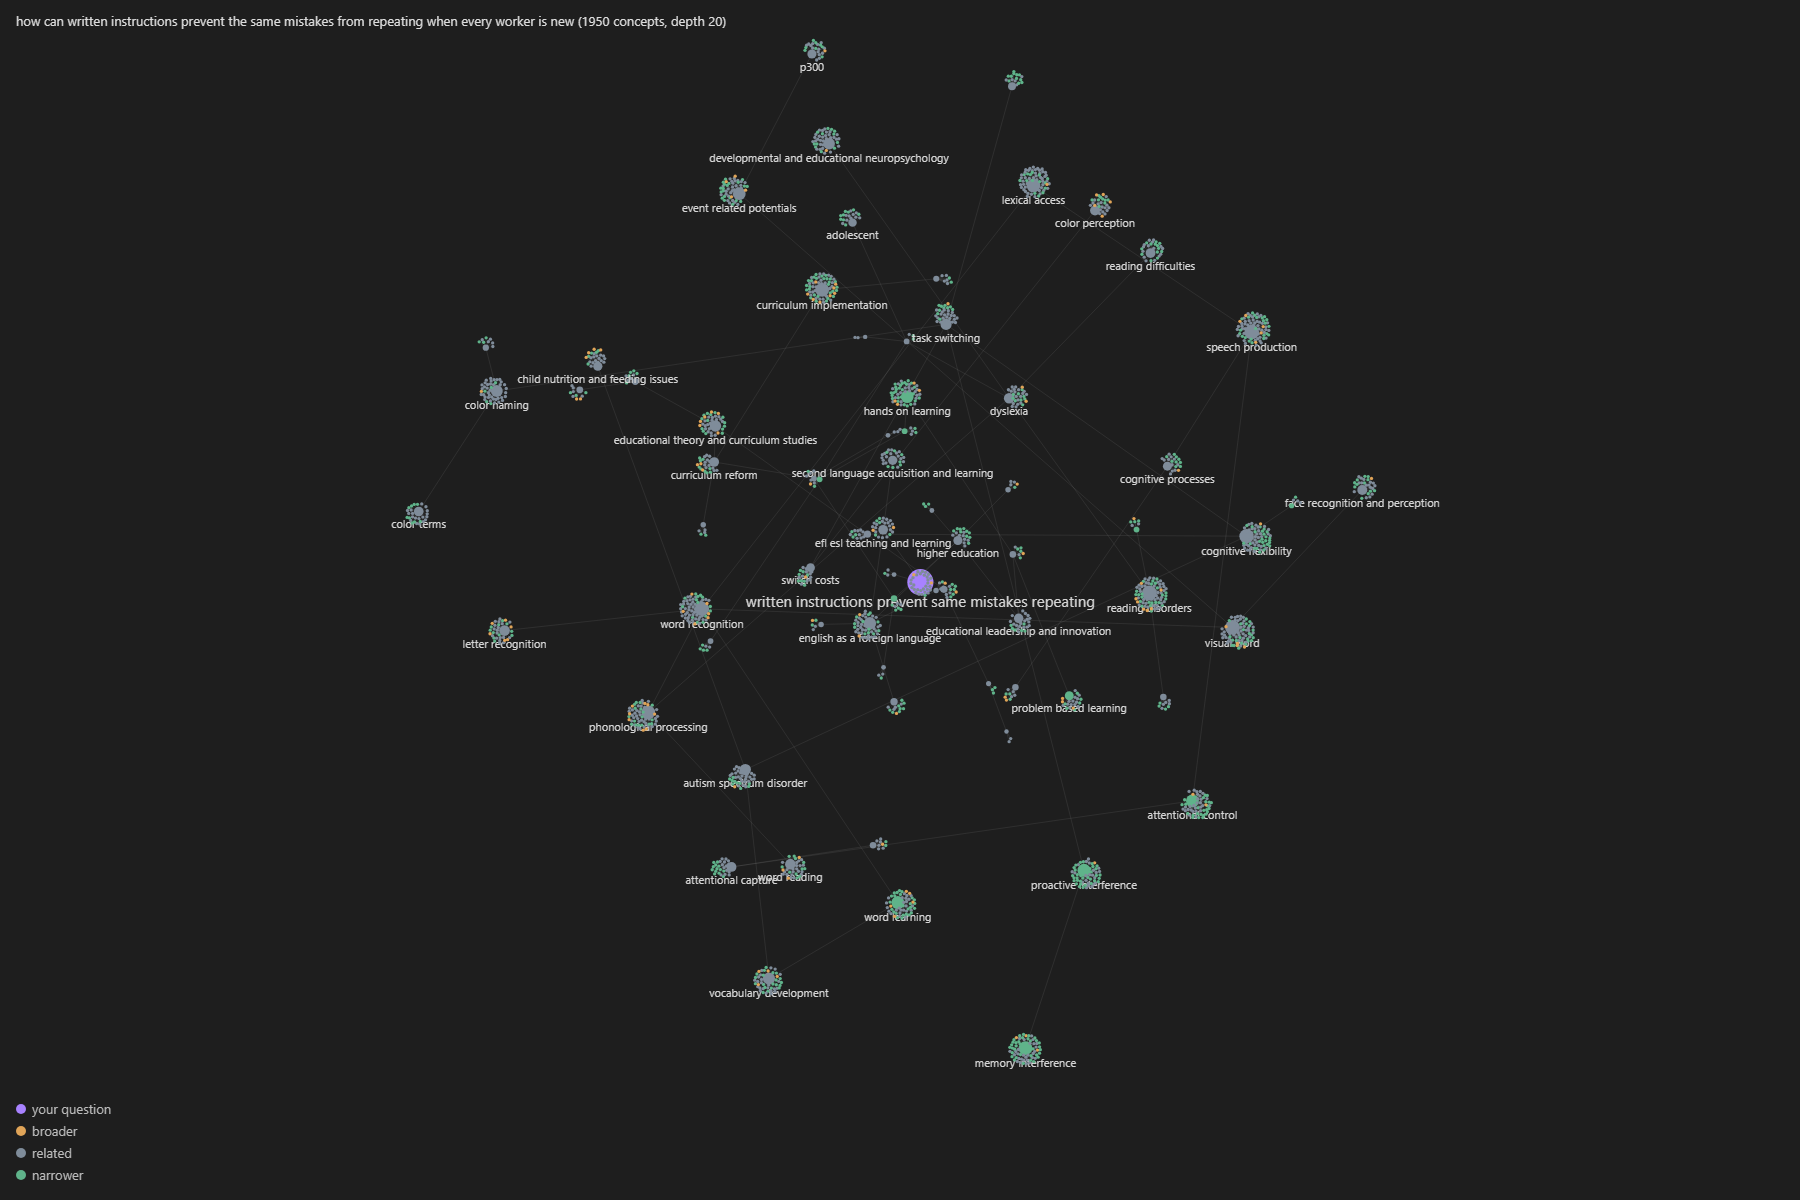
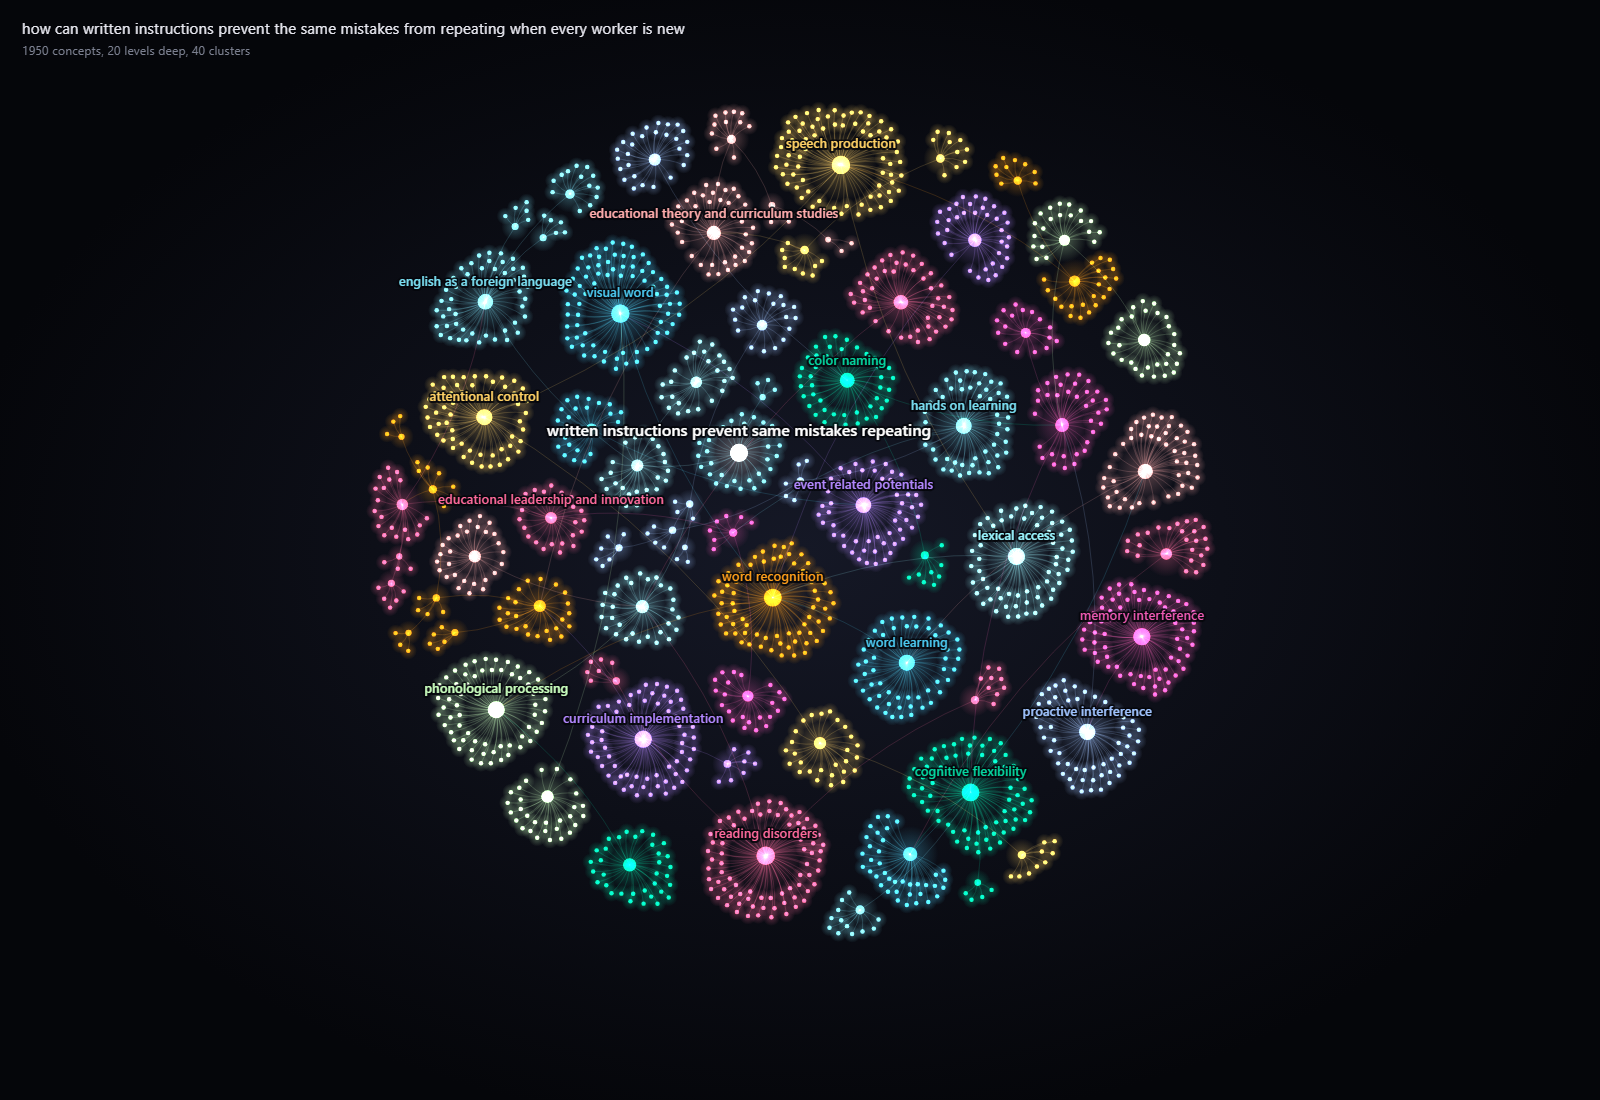
docs: concept map uses ForceAtlas2 layout and coloured clusters

diff --git a/tools/graph_view.py b/tools/graph_view.py
@@ -1,9 +1,9 @@
-"""Draw a run's concept map as a force-directed graph page, like Obsidian's graph view.
+"""Draw a run's concept map as a network picture: ForceAtlas2 layout, one colour per cluster.
 
     python tools/graph_view.py output/research_map.json --out graph.html
     python tools/graph_view.py output/research_map.json --out graph.html --png docs/assets/graph.png
 
-The page loads force-graph from a CDN; the package itself stays free of dependencies.
+The page loads graphology from a CDN; the package itself stays free of dependencies.
 --png renders the page in headless Chrome and saves a screenshot.
 """
 
@@ -14,52 +14,82 @@ import shutil
 import subprocess
 from pathlib import Path
 
-LIB = "https://cdn.jsdelivr.net/npm/force-graph@1.43.5/dist/force-graph.min.js"
+LIBS = "".join(f'<script src="https://cdn.jsdelivr.net/npm/{path}"></script>' for path in (
+    "graphology@0.25.4/dist/graphology.umd.min.js",
+    "graphology-library@0.8.0/dist/graphology-library.min.js",
+))
 
 PAGE = """<!doctype html>
 <html><head><meta charset="utf-8"><title>Eonrise concept map</title>
 <style>
-  html, body { margin: 0; height: 100%; background: #1e1e1e; overflow: hidden;
-    font: 13px system-ui, sans-serif; color: #bbb; }
-  #legend, #title { z-index: 2; }
-  #legend { position: fixed; left: 16px; bottom: 14px; line-height: 1.7; }
-  #legend b { display: inline-block; width: 10px; height: 10px; border-radius: 50%; margin-right: 6px; }
-  #title { position: fixed; left: 16px; top: 12px; max-width: 70%; color: #ddd; }
+  html { background: #05060a; }
+  html, body { margin: 0; height: 100%;
+    background: radial-gradient(ellipse at center, #151826 0%, #05060a 75%) fixed; overflow: hidden; }
+  canvas { display: block; }
+  #title { position: fixed; left: 22px; top: 18px; max-width: 70%;
+    font: 15px system-ui, sans-serif; color: #e8e8f0; letter-spacing: .2px; }
+  #title small { display: block; margin-top: 4px; color: #7c8090; font-size: 12px; }
 </style>
-<script src="__LIB__"></script></head>
-<body><div id="title"></div><div id="graph"></div><div id="legend"></div>
+__LIBS__</head>
+<body><div id="title"></div><canvas id="map"></canvas>
 <script>
+// ForceAtlas2 layout (Gephi's) plus Louvain clusters; each cluster gets one colour.
 const DATA = __DATA__;
-const COLOR = { root: "#a882ff", up: "#e0a458", sideways: "#7f8c9a", down: "#5fb38a" };
-const NAMES = { root: "your question", up: "broader", sideways: "related", down: "narrower" };
-document.getElementById("title").textContent = DATA.question + "  (" + DATA.nodes.length +
-  " concepts, depth " + DATA.maxDepth + ")";
-document.getElementById("legend").innerHTML = Object.keys(COLOR)
-  .map(k => '<div><b style="background:' + COLOR[k] + '"></b>' + NAMES[k] + "</div>").join("");
-const degree = {};
-DATA.links.forEach(l => { degree[l.source] = (degree[l.source] || 0) + 1; degree[l.target] = (degree[l.target] || 0) + 1; });
-const LABEL_DEGREE = DATA.nodes.length > 600 ? 20 : 5;
-const radius = n => 2 + Math.sqrt(degree[n.id] || 1) * 1.6;
-const graph = ForceGraph()(document.getElementById("graph"))
-  .graphData(DATA)
-  .backgroundColor("#1e1e1e")
-  .nodeRelSize(1)
-  .linkColor(() => "rgba(160,160,160,0.22)")
-  .linkWidth(0.6)
-  .cooldownTicks(400)
-  .nodeCanvasObject((n, ctx, scale) => {
-    // Sizes are in screen pixels, so a 2000-concept map stays readable when zoomed out.
-    const r = Math.max(radius(n), 1.6 / scale) * (n.depth === 0 ? 2.5 : 1);
-    ctx.beginPath(); ctx.arc(n.x, n.y, r, 0, 2 * Math.PI);
-    ctx.fillStyle = COLOR[n.direction] || COLOR.sideways; ctx.fill();
-    if (n.depth > 0 && (degree[n.id] || 0) < LABEL_DEGREE) return;
-    ctx.font = (n.depth === 0 ? 15 : 11) / scale + "px system-ui"; ctx.fillStyle = "#d6d6d6";
-    ctx.textAlign = "center"; ctx.fillText(n.label, n.x, n.y + r + 12 / scale);
-  })
-  .nodeLabel(n => n.label + " (" + NAMES[n.direction] + ", depth " + n.depth + ")")
-  .onEngineStop(() => { graph.zoomToFit(0, 40); document.title = "settled"; });
-graph.d3Force("charge").strength(-12);
-graph.d3Force("link").distance(12);
+const lib = graphologyLibrary;
+const g = new graphology.Graph();
+DATA.nodes.forEach((n, i) => g.addNode(n.id, { ...n, x: Math.cos(i) * i, y: Math.sin(i) * i }));
+DATA.links.forEach(l => g.mergeEdge(l.source, l.target));
+lib.layoutForceAtlas2.assign(g, { iterations: 900, settings: {
+  ...lib.layoutForceAtlas2.inferSettings(g), barnesHutOptimize: true, strongGravityMode: true,
+  gravity: 0.6, scalingRatio: 6, adjustSizes: false } });
+const community = lib.communitiesLouvain(g, { resolution: 1.2 });
+const PALETTE = ["#ff6b9d", "#4cc9f0", "#ffd166", "#7bdff2", "#b388ff", "#06d6a0", "#ff9f1c",
+  "#f15bb5", "#9bf6ff", "#caffbf", "#ffadad", "#a0c4ff"];
+const sizes = {};
+Object.values(community).forEach(c => sizes[c] = (sizes[c] || 0) + 1);
+const rank = Object.keys(sizes).sort((a, b) => sizes[b] - sizes[a]);
+const colorOf = id => g.getNodeAttribute(id, "depth") === 0 ? "#ffffff"
+  : PALETTE[rank.indexOf(String(community[id])) % PALETTE.length];
+
+const W = innerWidth, H = innerHeight, canvas = document.getElementById("map");
+canvas.width = W; canvas.height = H; canvas.style.height = H + "px";
+const ctx = canvas.getContext("2d");
+const xs = g.mapNodes((_, a) => a.x), ys = g.mapNodes((_, a) => a.y);
+const [x0, x1, y0, y1] = [Math.min(...xs), Math.max(...xs), Math.min(...ys), Math.max(...ys)];
+const pad = 70, k = Math.min((W - 2 * pad) / (x1 - x0), (H - 2 * pad - 40) / (y1 - y0));
+const px = x => (x - (x0 + x1) / 2) * k + W / 2, py = y => (y - (y0 + y1) / 2) * k + H / 2 + 20;
+
+ctx.globalCompositeOperation = "lighter";
+g.forEachEdge((e, a, s, t, sa, ta) => {
+  const [ax, ay, bx, by] = [px(sa.x), py(sa.y), px(ta.x), py(ta.y)];
+  const mx = (ax + bx) / 2 + (by - ay) * 0.12, my = (ay + by) / 2 - (bx - ax) * 0.12;
+  ctx.strokeStyle = colorOf(t) + "40"; ctx.lineWidth = 0.7;
+  ctx.beginPath(); ctx.moveTo(ax, ay); ctx.quadraticCurveTo(mx, my, bx, by); ctx.stroke();
+});
+const radius = id => id === "c0" ? 9 : 1.3 + Math.sqrt(g.degree(id)) * 0.9;
+g.forEachNode((id, a) => {
+  const c = colorOf(id), r = radius(id), x = px(a.x), y = py(a.y);
+  const glow = ctx.createRadialGradient(x, y, 0, x, y, r * 4);
+  glow.addColorStop(0, c + "55"); glow.addColorStop(1, c + "00");
+  ctx.fillStyle = glow; ctx.beginPath(); ctx.arc(x, y, r * 4, 0, 7); ctx.fill();
+  ctx.fillStyle = c; ctx.beginPath(); ctx.arc(x, y, r, 0, 7); ctx.fill();
+});
+
+ctx.globalCompositeOperation = "source-over";
+const hubs = {};
+g.forEachNode((id, a) => { const c = community[id];
+  if (a.depth > 0 && (!hubs[c] || g.degree(id) > g.degree(hubs[c]))) hubs[c] = id; });
+const labelled = rank.slice(0, 18).map(c => hubs[c]).filter(Boolean).concat(["c0"]);
+ctx.textAlign = "center"; ctx.lineJoin = "round";
+labelled.forEach(id => {
+  const a = g.getNodeAttributes(id), x = px(a.x), y = py(a.y) - radius(id) - 8;
+  ctx.font = (id === "c0" ? "600 16px" : "500 13px") + " system-ui, sans-serif";
+  ctx.lineWidth = 4; ctx.strokeStyle = "rgba(5,6,10,.85)"; ctx.strokeText(a.label, x, y);
+  ctx.fillStyle = id === "c0" ? "#ffffff" : colorOf(id); ctx.fillText(a.label, x, y);
+});
+document.getElementById("title").innerHTML = DATA.question +
+  "<small>" + DATA.nodes.length + " concepts, " + DATA.maxDepth + " levels deep, " + rank.length + " clusters</small>";
+document.title = "settled";
 </script></body></html>
 """
 
@@ -95,7 +125,7 @@ def main() -> None:
     args = p.parse_args()
 
     data = graph_data(json.loads(args.map.read_text(encoding="utf-8")))
-    page = PAGE.replace("__LIB__", LIB).replace("__DATA__", json.dumps(data, ensure_ascii=False))
+    page = PAGE.replace("__LIBS__", LIBS).replace("__DATA__", json.dumps(data, ensure_ascii=False))
     args.out.write_text(page, encoding="utf-8")
     print(f"{args.out}: {len(data['nodes'])} concepts, {len(data['links'])} links, depth {data['maxDepth']}")
     if args.png:

diff --git a/README.md b/README.md
@@ -42,7 +42,7 @@ fields beside it, narrower ones below, each branching again. This is the
 `--max-depth 30 --max-nodes 2000`: 1,950 concepts, 20 levels deep, drawn straight from its
 `research_map.json` by [`tools/graph_view.py`](tools/graph_view.py):
 
-<img src="docs/assets/concept-map.png" alt="Force-directed graph of 1,950 concepts one Eonrise run reached from a question about written instructions and repeated mistakes. The question sits in the middle. Labelled clusters around it include second language acquisition, curriculum implementation, task switching, proactive interference, memory interference, cognitive flexibility, dyslexia and speech production." width="100%">
+<img src="docs/assets/concept-map.png" alt="Network map of 1,950 concepts in 40 coloured clusters that one Eonrise run reached from a question about written instructions and repeated mistakes. The question sits in the middle. Labelled clusters around it include speech production, word recognition, curriculum implementation, attentional control, cognitive flexibility, memory interference, proactive interference and reading disorders." width="100%">
 
 1. The question becomes one root topic, and every later search stays tied to it.
 2. Each round searches the scholarly sources and drops papers about something else.
